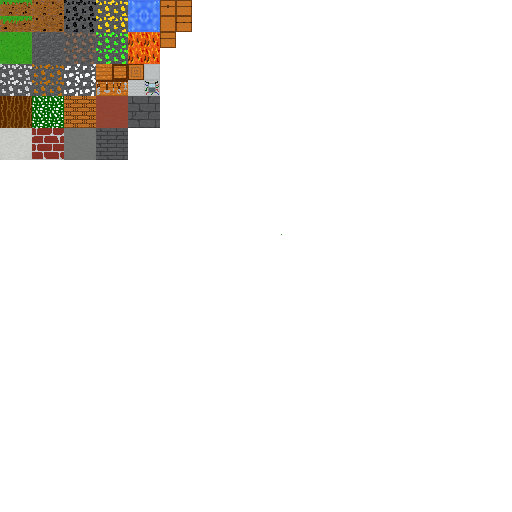
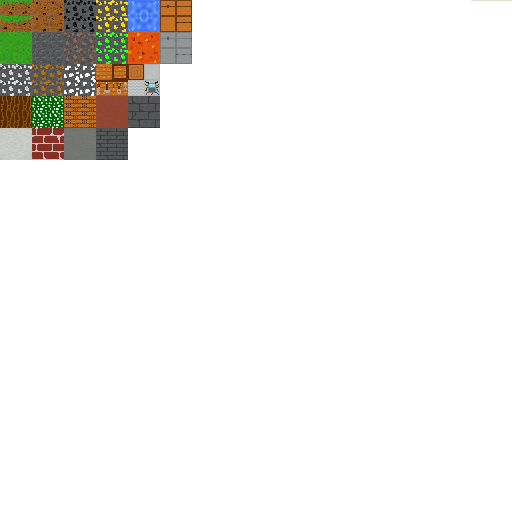
Modif de texture mineur
Ajout du coffre en fer, et fix rater de la lave.

Changed region(s): [[0.25, 0.0625, 0.375, 0.125]]

diff --git a/src/modeles/TextureManager.java b/src/modeles/TextureManager.java
@@ -1504,6 +1504,57 @@ public class TextureManager {
 
 	}
 
+	private float[] genSteelChestTexture(){
+		return new float[]{
+				//south
+				0.375f, 0.09375f,
+				0.375f, 0.0625f,
+				0.34375f, 0.09375f,
+				0.34375f, 0.09375f,
+				0.375f, 0.0625f,
+				0.34375f, 0.0625f,
+				
+				//face sud inverser
+				0.34375f, 0.0625f,
+				0.375f, 0.0625f,
+				0.375f, 0.09375f,
+				0.34375f, 0.0625f,
+				0.375f, 0.09375f,
+				0.34375f, 0.09375f,
+
+				//top
+				0.34375f, 0.125f,
+				0.34375f, 0.09375f,
+				0.3125f, 0.125f,
+				0.3125f, 0.125f,
+				0.34375f, 0.09375f,
+				0.3125f, 0.09375f,
+
+				//bottom
+				0.3125f, 0.09375f,
+				0.3125f, 0.125f,
+				0.34375f, 0.09375f,
+				0.34375f, 0.09375f,
+				0.3125f, 0.125f,
+				0.34375f, 0.125f,
+
+				0.34375f, 0.09375f,
+				0.34375f, 0.0625f,
+				0.3125f, 0.09375f,
+				0.3125f, 0.09375f,
+				0.34375f, 0.0625f,
+				0.3125f, 0.0625f,
+
+				0.34375f, 0.125f,
+				0.375f, 0.09375f,
+				0.34375f, 0.09375f,
+				0.375f, 0.125f,
+				0.375f, 0.09375f,
+				0.34375f, 0.125f
+		};
+
+	}
+	
 	public int getID(){
 		return texture.getTextureID();
 	}
@@ -1572,6 +1623,8 @@ public class TextureManager {
 			return genElectricPanelTexture();
 		case 27:
 			return genChestTexture();
+		case 28:
+			return genSteelChestTexture();
 		default:
 			return genGrassTexture(x, y);
 		}

diff --git a/src/modeles/TerrainGenerator.java b/src/modeles/TerrainGenerator.java
@@ -71,7 +71,7 @@ public class TerrainGenerator {
 
 		for(int i = originY+1; i>originY-16; --i){
 			for(int j = originZ; j>originZ-16; --j){
-				temp.addCube3dVbo(new Cube3dVbo(originX, -i, j, 1, 27));
+				temp.addCube3dVbo(new Cube3dVbo(originX, -i, j, 1, 22));
 			}
 		}
 	}
